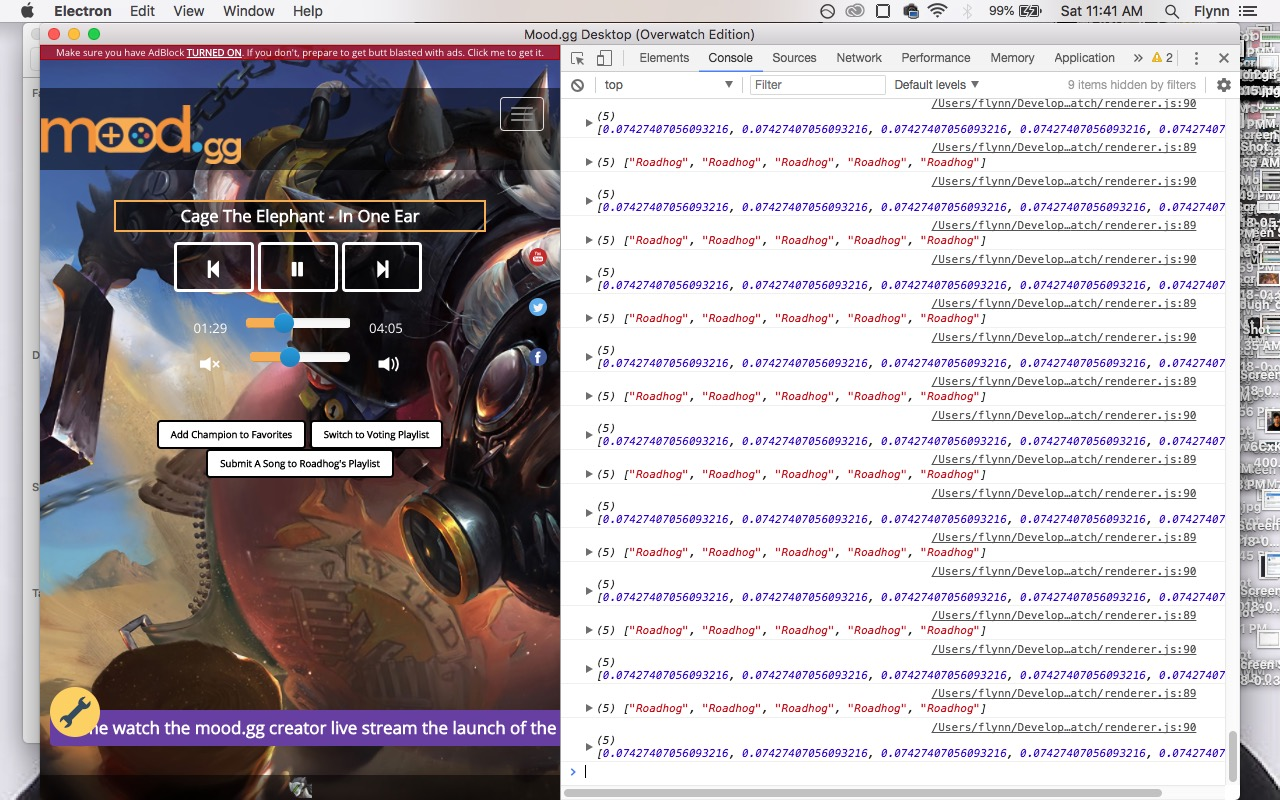
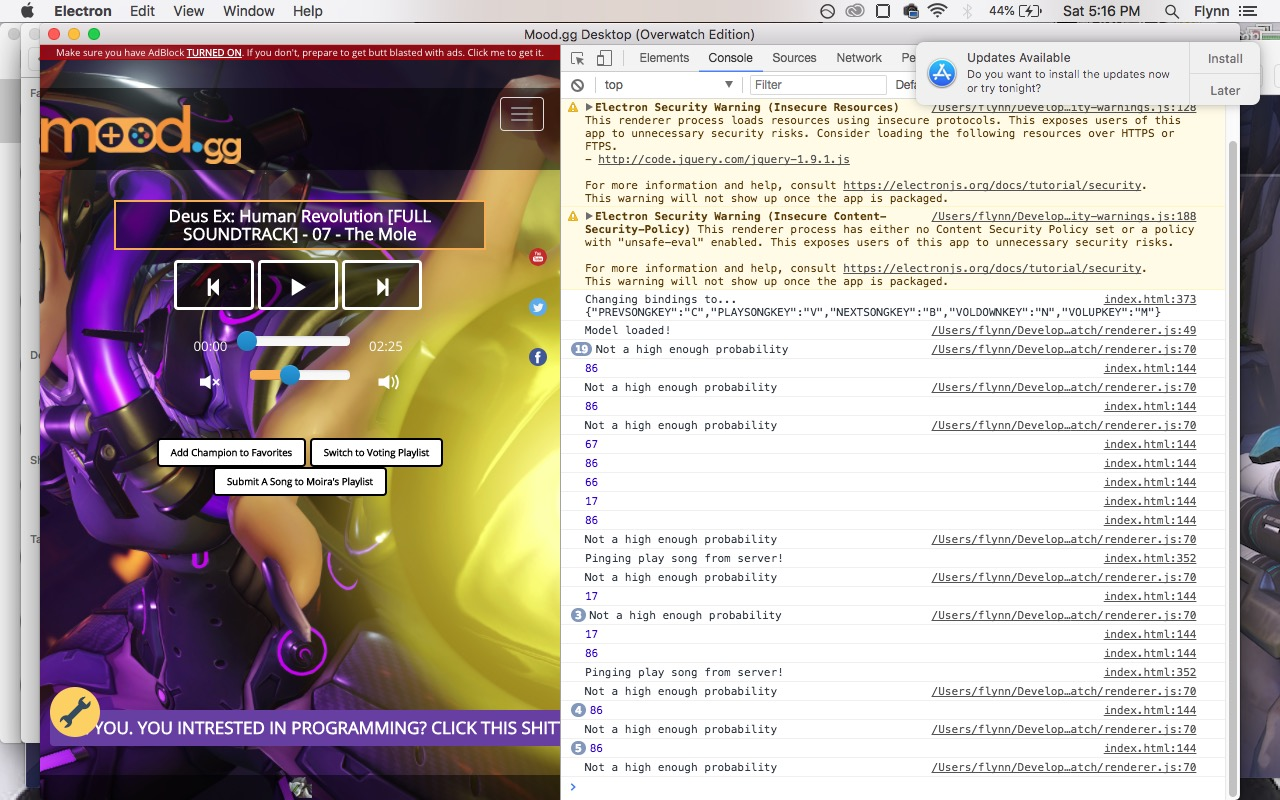
bug with keys

diff --git a/renderer.js b/renderer.js
@@ -66,13 +66,13 @@ async function predict(imgElement) {
     let prob = classes[0].probability;
     let pred = classes[0].className;
 
-    if(prob != 1.0) {
-        console.log("Not sure what I'm loooking at!");
+    if(prob < 0.97) {
+        console.log("Not a high enough probability");
         return;
     }
 
     // check last 5 predictions, and only then switch playlists.
-    if (heroClassPredictions.length == 5) {
+    if (heroClassPredictions.length == 3) {
         // remove oldest prediction to keep array at constant size < 5.
         heroClassPredictions.shift();
         heroProbabilityValues.shift()
@@ -89,7 +89,7 @@ async function predict(imgElement) {
     console.log(heroClassPredictions);
     console.log(heroProbabilityValues);
 
-    let newH = checkChamp(heroClassPredictions);
+    let newH = checkChamp(heroClassPredictions, heroProbabilityValues);
     // not sure about current champ at all, backout!
     if (newH == null) {
         return
@@ -135,12 +135,18 @@ function startScreen() {
 
 // Simply takes an array of predictions and makes sure we predicted the same thing 5 times.
 // Otherwise, just return null.
-function checkChamp(arr) {
+function checkChamp(arr, arrTwo) {
+     // First we check that all the predictions beleive they found the SAME hero.
      let s = new Set(arr)
      if(s.size == 1) {
         var it = s.values();
         var first = it.next();
-        return first.value;
+        // Lastly, we do a quick check to make sure we had a "100%" prediction at least once.
+        if (arrTwo.includes(1)) {
+            return first.value;
+        } else {
+            return null;
+        }
      } else {
          return null;
      }

diff --git a/index.html b/index.html
@@ -10,10 +10,6 @@
     <!-- Insert this line above script imports  -->
     <script>if (typeof module === 'object') {window.module = module; module = undefined;}</script>
 
-    <!-- normal script imports etc  -->
-    <script src="http://code.jquery.com/jquery-1.9.1.js"></script>
-
-
     <!-- Insert this line after script imports -->
     <script>if (window.module) module = window.module;</script>
   </head>
@@ -136,8 +132,11 @@
 
 
   </body>
+  <!-- normal script imports etc  -->
+  <script src="http://code.jquery.com/jquery-1.9.1.js"></script>
   <!-- Latest compiled and minified JavaScript -->
   <script src="https://maxcdn.bootstrapcdn.com/bootstrap/3.3.7/js/bootstrap.min.js" integrity="sha384-Tc5IQib027qvyjSMfHjOMaLkfuWVxZxUPnCJA7l2mCWNIpG9mGCD8wGNIcPD7Txa" crossorigin="anonymous"></script>
+
   <script>
     var {ipcRenderer} = require('electron');
 

diff --git a/main.js b/main.js
@@ -91,7 +91,7 @@ gkm.events.on('key.released', function(data) {
     }
   }
 
-  if(data == "Left Shift") {
+  if(data == "Left Control") {
     shift = false;
   }
 
